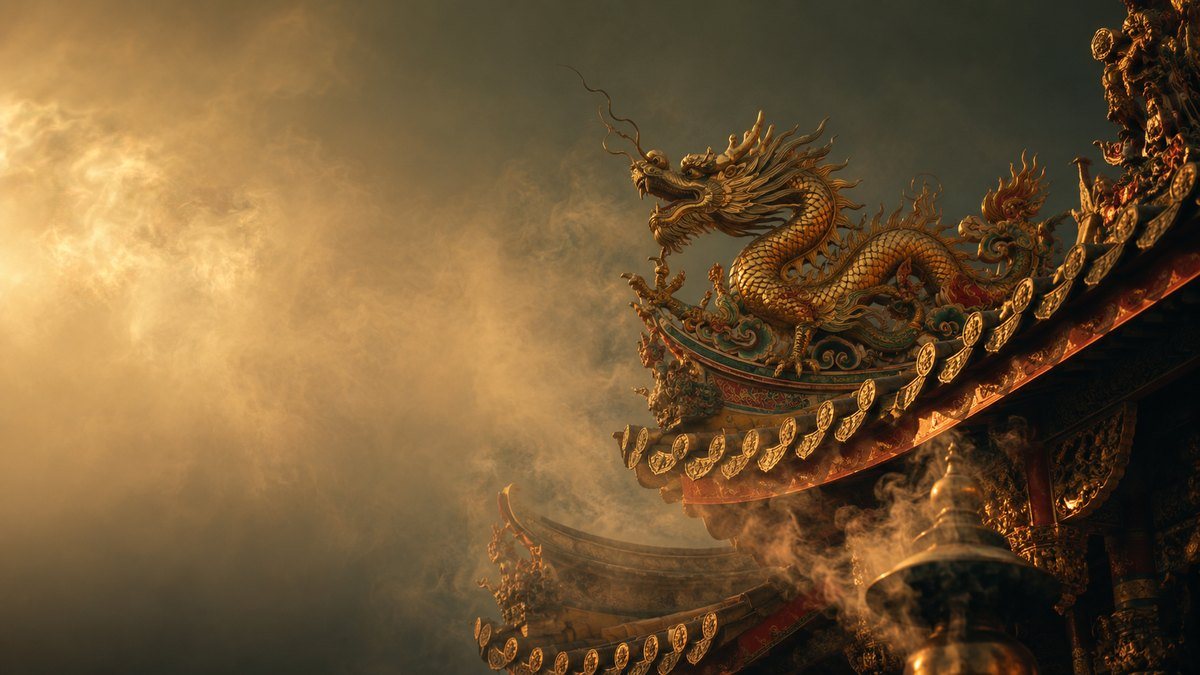
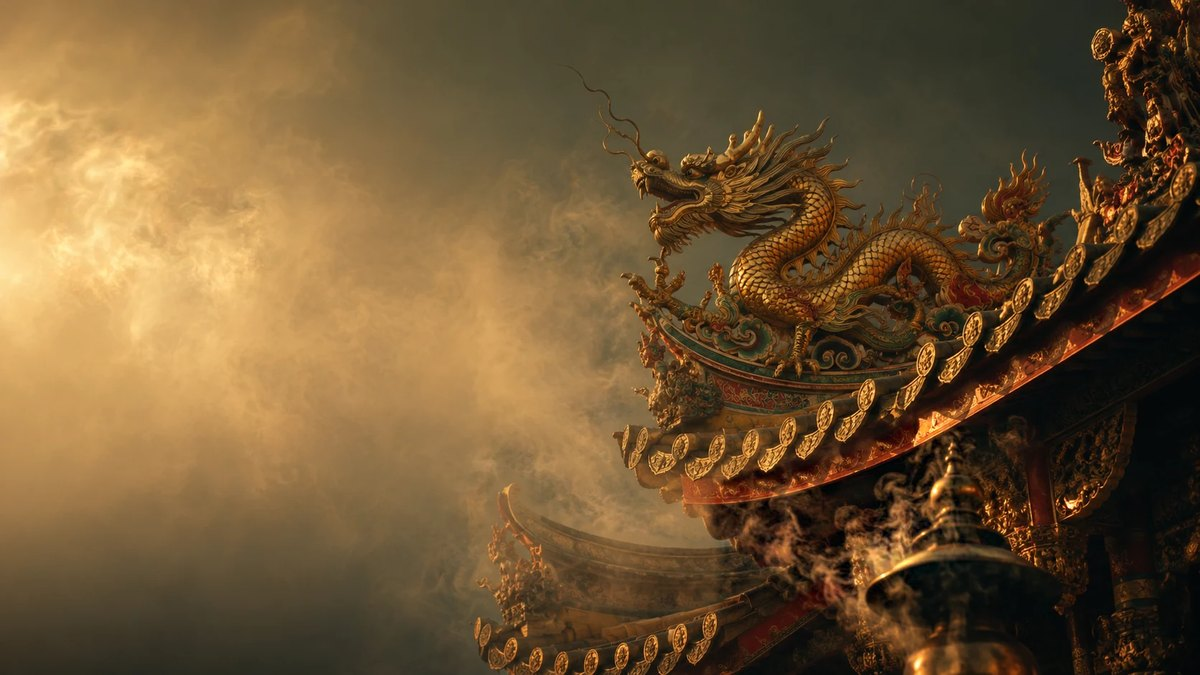
fix(candidate-005): hand-masked censer smoke removal, correct mobile MP4, candidateId
Baseline: Candidate-004 ea264cf. sen chose option A, manual removal of the censer
plume. Scope limited to that plus the two items the independent audit raised.

M-02R censer plume, hand-authored mask
  The smoke ROI is drawn by hand as two polygons, placed from a 100% visual
  inspection of the censer rather than from a threshold, and feathered by 8 px.
  Inside it an additive-veil removal runs: out = (a - alpha*V)/(1 - alpha), with V the
  measured smoke colour and alpha derived from the smoothed luminance above a floor,
  eased off on crisp carving and hard-bounded so no channel is crushed below 3/255.
  Because the operation subtracts a veil rather than painting over it, the carving
  underneath is revealed instead of eroded: texture inside the ROI rises 38.4%, and an
  edge cross-correlation peaks at zero displacement, so the censer outline and the
  ornament edges do not move. Nothing outside the feathered ROI changes, and the
  Candidate-005 core protect region records 0 changed pixels.

  The dense core of the plume is reduced but not gone. After the un-veil the still
  bright residual carries a local detail median of 0.0593, about 5x the ornament
  threshold, and only 6.7% of it is featureless. That content is textured, so erasing
  it would mean destroying revealed carving or inventing architecture the photograph
  does not contain. This build stops at the maximum removal that fabricates nothing
  and reports the remainder rather than hiding it.

M-07 mobile MP4
[…]

Changed region(s): [[0.5858, 0.6222, 0.8325, 0.9022]]

diff --git a/config/announcement-config.js b/config/announcement-config.js
@@ -18,7 +18,7 @@
   });
 
   const config = Object.freeze({
-    candidateId: 'MZSM-MOTION-TEMPLE-INTEGRATION-CANDIDATE-002',
+    candidateId: 'MZSM-MOTION-TEMPLE-INTEGRATION-CANDIDATE-005',
     mode: 'disabled', // disabled | rpc
     supabaseUrl: '',
     supabasePublishableKey: '',
